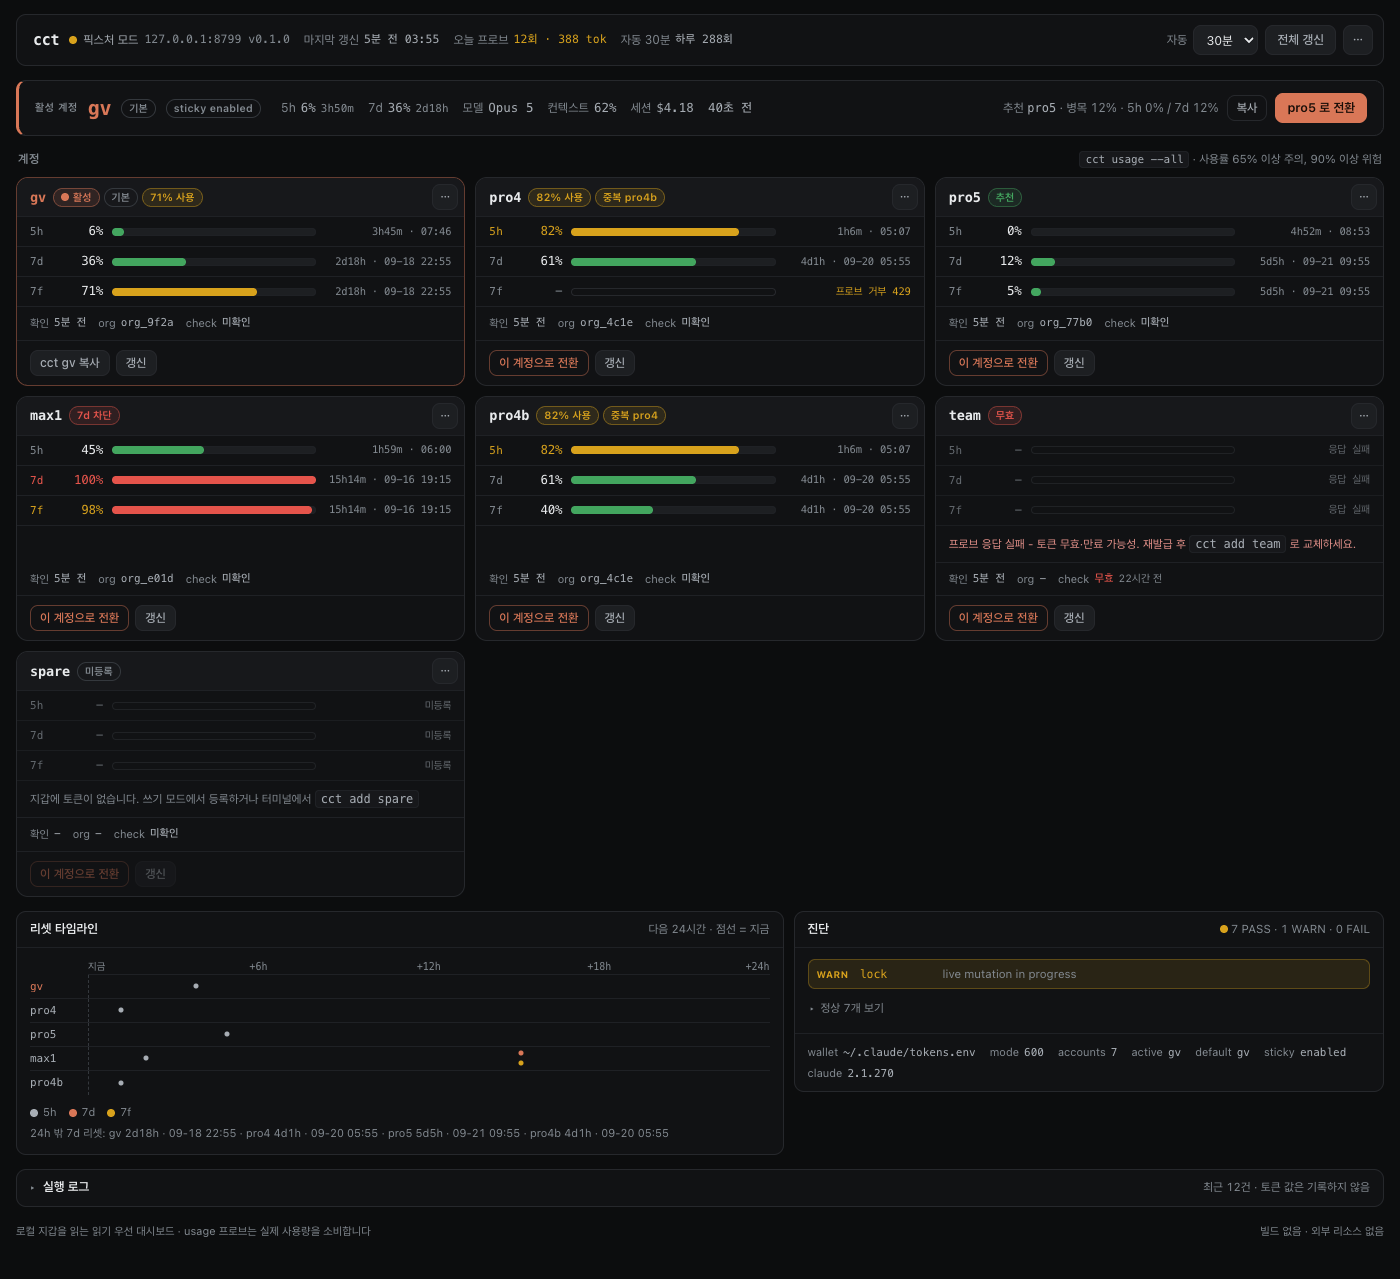
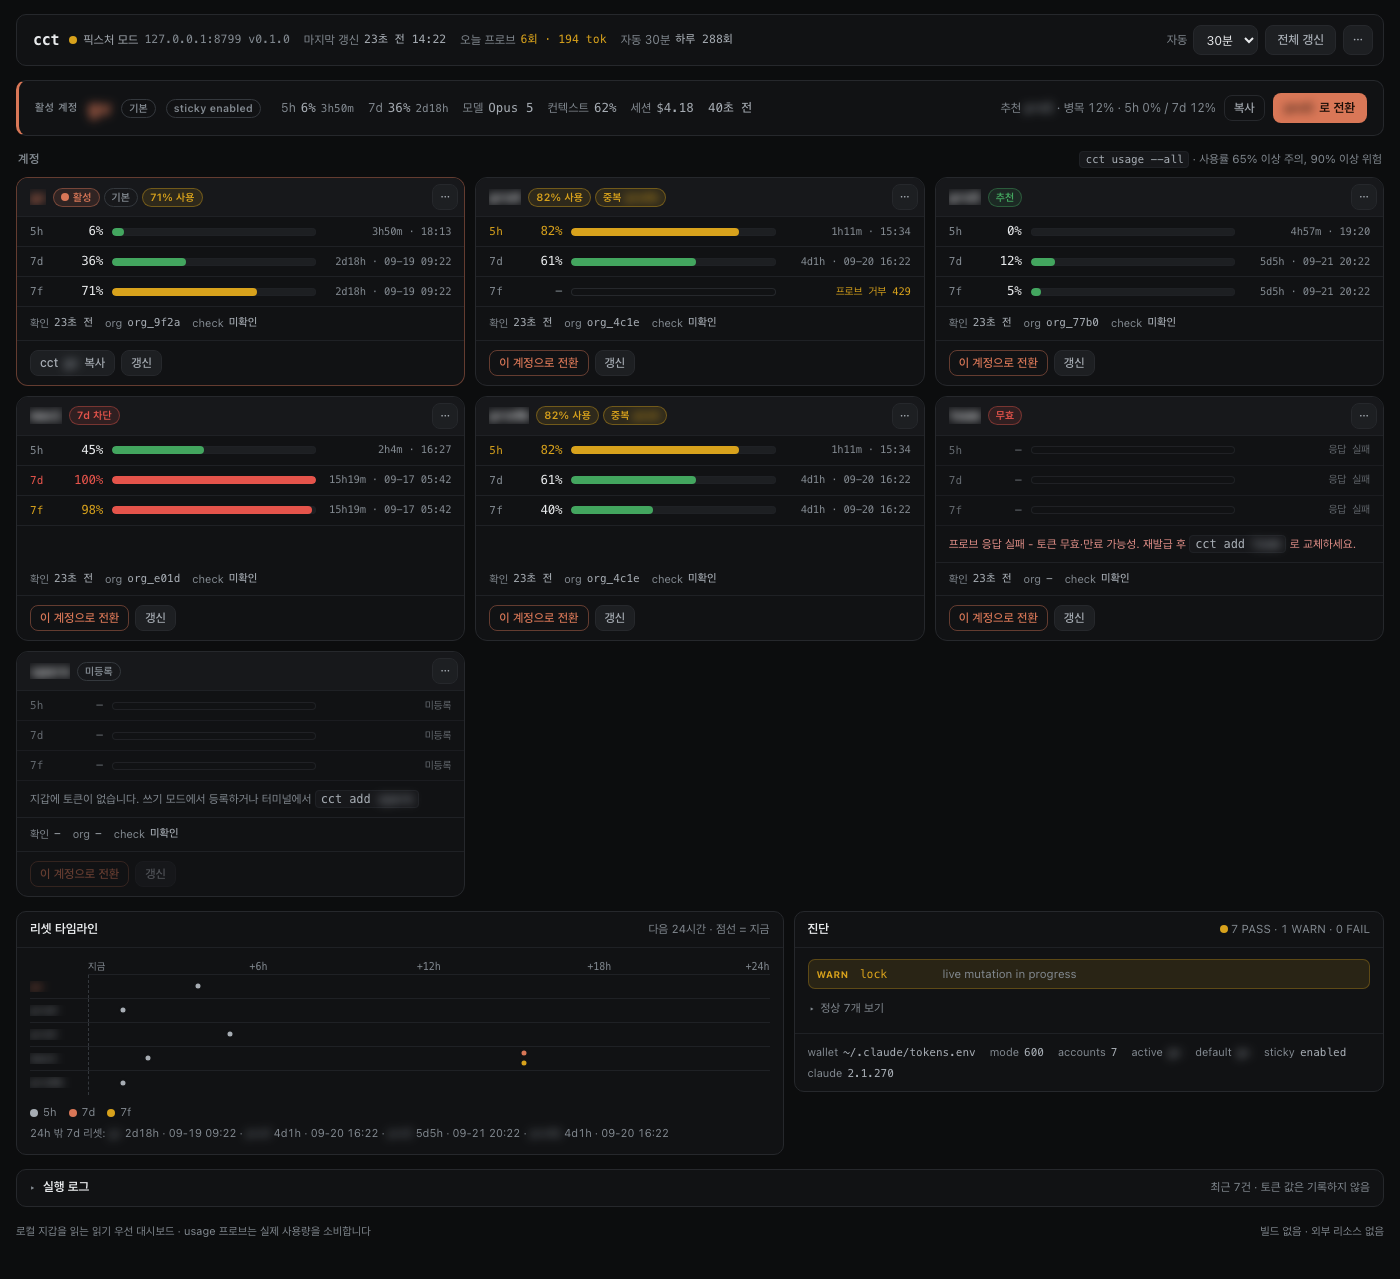
docs: README 에 대시보드 절과 데모 스크린샷 추가
한·영 README 에 실행법·화면 구성표·프로브 비용·임계 규칙을 넣고,
데스크톱 스크린샷은 본문에, 400px·쓰기 모드는 details 로 접었다.
스크린샷 3종을 계정 라벨 블러 버전으로 교체한다.

Constraint: 공개 리포라 스크린샷에 계정 라벨이 남으면 안 된다 - 픽스처 모드로 띄운 뒤 라벨 텍스트만 CSS 블러를 입혀 재촬영했다
Constraint: 400px 은 window-size 로 직접 못 찍는다 - 페이지 최소 너비 때문에 우측이 잘리므로 같은 오리진에서 400px iframe 래퍼로 감싸 촬영한다(file:// 래퍼는 virtual-time 안에서 state fetch 가 끝나지 않아 스켈레톤이 찍힘)
Not-tested: README 렌더는 GitHub 에서 확인하지 않았다 - details/이미지 경로는 로컬 마크다운 기준

diff --git a/README.en.md b/README.en.md
@@ -74,6 +74,40 @@ When applying or clearing an account, cct exports and unsets `ANTHROPIC_OAUTH_TO
 
 For tools that support command-valued secrets instead of env inheritance, the installer also ships the `~/.claude/cct-token.sh` bridge (mode `700`). It prints the active profile's setup-token to stdout and exits non-zero with no output when there is no active profile or token. Example: aside's `models.json` with `"apiKey": "!<home>/.claude/cct-token.sh"` — the tool follows the active account at call time.
 
+## Dashboard (optional)
+
+`dashboard/` holds a local web dashboard that shows wallet state on one screen. Instead of typing `cct status`, `cct doctor`, and `cct usage --all` separately, you see at a glance how much each account has left and which one to switch to. It is vanilla HTML/CSS/JS plus a standard-library Python server — no build step, no external resources, no CDN.
+
+```sh
+uv run --script dashboard/server.py --port 8790          # real wallet
+uv run --script dashboard/server.py --fake --port 8799   # fixture mode (zero real probes)
+```
+
+It binds to `127.0.0.1` and is read-first by default. Adding, renaming, and deleting accounts only appear once you enable write mode from the `···` menu, and token values never show up on screen, in responses, or in the execution log. For always-on use, see the plist templates in `dashboard/launchd/`.
+
+![Dashboard, desktop](dashboard/screenshots/desktop-1400.png)
+
+| Area | Content | Probe |
+|---|---|---|
+| Top bar | Connection, last refresh, today's probe budget, auto-refresh interval, refresh all | Spent on refresh |
+| Active account bar | Active label, 5h/7d + model + context + session cost from the statusline cache, one switch suggestion | None |
+| Account cards | Per-label 5h/7d/7f single-line meters, reset time, status badge, org, check | Spent on refresh/check |
+| Reset timeline | Window resets over the next 24 hours | None |
+| Diagnostics | `cct doctor` as PASS/WARN/FAIL; passes collapse, warnings and failures expand | None |
+
+Utilization bars read under 65% as headroom, 65-89% as caution, and 90% or higher (or `rejected`) as danger. A window with no data is never filled with a made-up number - it says `unknown`, `unsupported`, or `no response` instead. `cct usage` is a real API call that consumes quota (premium probe ≤32 tokens), so the top bar always shows today's probe count and estimated tokens.
+
+<details>
+<summary>400px mobile and write mode</summary>
+
+![400px mobile](dashboard/screenshots/mobile-400.png)
+
+![Write mode](dashboard/screenshots/write-mode-1400.png)
+
+</details>
+
+Every screenshot is a fixture-mode (`--fake`) demo with account labels blurred. See [dashboard/README.md](dashboard/README.md) for details.
+
 ## Portability and the OSS boundary
 
 Real credentials live only outside the repository in `~/.claude/tokens.env` (or `CCT_ENV_FILE`). The public repository contains no real wallet, and cloning it grants access to no account. `.gitignore` and the installer's global ignore entries reduce accidents; they are not a security boundary, and users remain responsible for never adding credential files to Git.
